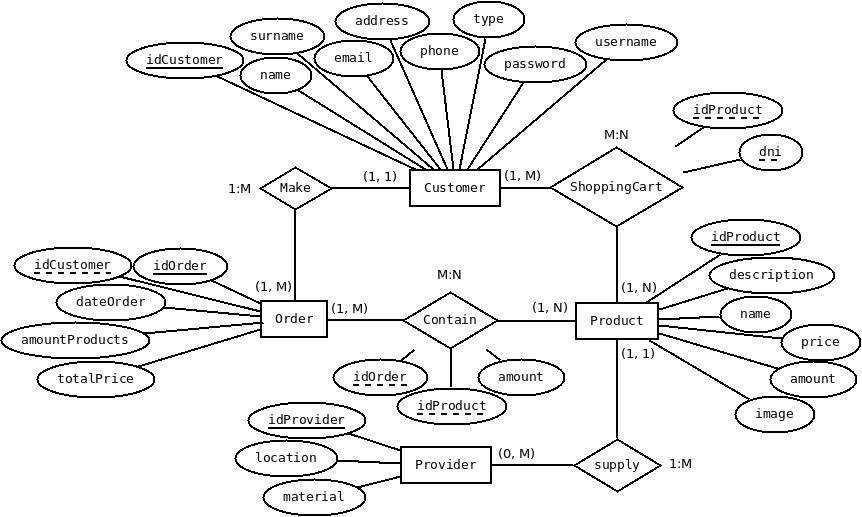
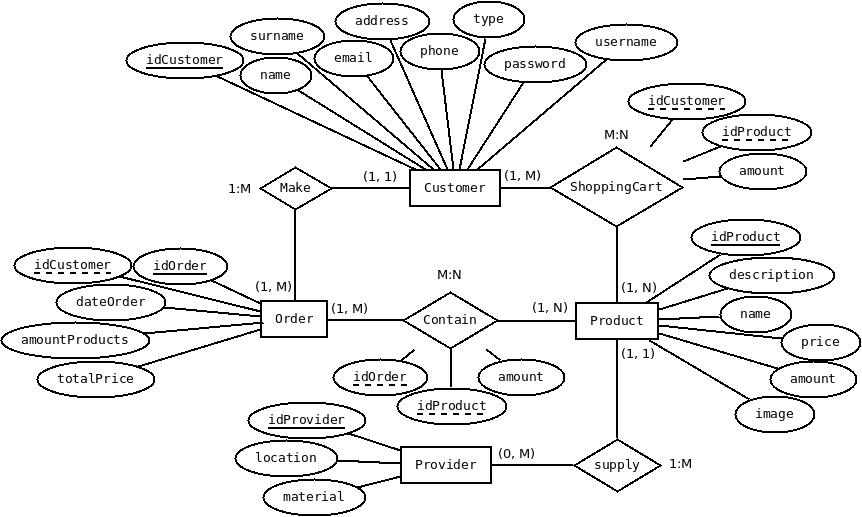
Add and display the quantity of products in the shopping cart

Changed region(s): [[0.7239, 0.1547, 0.935, 0.3714]]

diff --git a/css/product_info.css b/css/product_info.css
@@ -16,41 +16,67 @@ body{
 	background: white;
 	box-shadow: 0px 5px 10px #B5C1C5, 0 0 0 10px #EEF5F7 inset;
 }
+#basic{
+	/* border: 1px solid #555; */
+	display: flex;
+	height: 35px;
+}
+#basic #user{
+	width: 33%;
+}
+#basic #title{
+	width: 33%;
+}
+#basic #cart{
+	width: 33%;
+}
+#basic #user p{
+  margin-top: 18px;
+}
+#basic #title h1{
+	font-size: 18px;
+	text-align: center;
+}
+#basic #cart label{
+	float: right;
+	background: #798e94;
+	color: #fff;
+	padding: 3px 7px;
+	border-radius: 10px;
+}
+#basic #cart img{
+  width: 38px;
+	height: 36px;
+	float: right;
+	margin-top: -1px;
+  filter: brightness(125%);
+}
 hr{
 	color: #ffffff80;
 }
-h1{
-	text-align: center;
-	font-size: 18px;
+#infobar{
+	background: #E2ECEE;
+	color: #798e94;
+	padding: 3px 10px;
+	border-radius: 0px 0px 6px 6px;
+	margin-top: -7px;
+	display: flex;
+}
+#path{
+	width: 50%;
+}
+#path a{
+	text-decoration: none;
 }
 #unlogin{
-  	float: right;
-	margin-top: -4px;
+	width: 50%;
+	text-align: right;
 }
 input[type=submit] {
-	float: right;
-	padding:5px 15px;
 	background:#E2ECEE;
 	border:0 none;
 	cursor:pointer;
 	border-radius: 5px;
-}
-p{
-	margin-top: -30px;
-}
-form{
-	margin-top: -40px;
-}
-#path{
-	background: #E2ECEE;
-	color: #798e94;
-	padding: 7px;
-	border-radius: 0px 0px 6px 6px;
-	margin-top: -3px;
-}
-#path a{
-	text-decoration: none;
-	color: #798e94;
 }
 #content{
 	/* border: 1px solid #555; */
@@ -101,7 +127,7 @@ form{
 }
 #content h1{
 	margin-top: 7px;
-	margin-left: -5px;
+	margin-left: 10px;
 	font-size: 16px;
 }
 #content h2{

diff --git a/product_info.php b/product_info.php
@@ -12,73 +12,113 @@
 		include_once "db_connection.php";
 
 	    session_start();
+
+		// If user is not logged
+		if(!isset($_SESSION["iduser"]))
+			header('Location: login.php');
+
+		// If hasn't arrived the product id from menu.php
+		if(!isset($_GET["id"]))
+			header('Location: menu.php');
+
 	    // If user clicked on unlogin button
 		if(isset($_POST["unlogin"])){
 			session_destroy();
 			header('Location: login.php');
 		}
 
-		// If user is logged
-		if(isset($_SESSION["iduser"])){
+		// Get username from database
+		$username = "";
+        $getusername = "SELECT name
+                        FROM customer
+                        WHERE idcustomer = {$_SESSION['iduser']};
+                       ";
 
-			// If hasn't arrived the product id from menu.php
-			if(!isset($_GET["id"]))
-				header('Location: menu.php');
+        if ($result = $connection->query($getusername)) {
+            if ($result->num_rows > 0)
+                $username = $result->fetch_object()->name;
+            else
+                echo "Impossible to get the username";
+        }else
+            echo "Wrong Query";
 
-			// Get username from database
-			$username = "";
-            $getusername = "SELECT name
-                            FROM customer
-                            WHERE idcustomer = {$_SESSION['iduser']};
-                           ";
+        // Get product data
+		$productName;
+		$productCategory;
+		$productDescrip;
+		$productPrice;
+		$productAmount;
+		$productImage;
 
-            if ($result = $connection->query($getusername)) {
-                if ($result->num_rows > 0)
-                    $username = $result->fetch_object()->name;
-                else
-                    echo "Impossible to get the username";
+        $getproduct = "SELECT *
+                       FROM product
+                       WHERE idproduct = {$_GET['id']};
+                      ";
+
+        if ($result = $connection->query($getproduct)) {
+            if ($result->num_rows > 0){
+            	$product = $result->fetch_object();
+
+				$productName     = $product->name;
+				$productCategory = $product->category;
+				$productDescrip  = $product->description;
+				$productPrice    = $product->price;
+				$productAmount   = $product->amount;
+				$productImage    = $product->urlimage;
             }else
-                echo "Wrong Query";
+                echo "Impossible to get the product";
+        }else
+            echo "Wrong Query";
 
-            // Get product data
-			$productName;
-			$productCategory;
-			$productDescrip;
-			$productPrice;
-			$productAmount;
-			$productImage;
-
-            $getproduct = "SELECT *
-                           FROM product
-                           WHERE idproduct = {$_GET['id']};
+        // Add to Cart
+		if(isset($_POST["addToCart"])){
+            $getproduct = "INSERT INTO shopping_cart
+            			   VALUES({$_SESSION["iduser"]}, {$_GET["id"]}, {$_POST["quantity"]});
                           ";
 
             if ($result = $connection->query($getproduct)) {
-                if ($result->num_rows > 0){
-                	$product = $result->fetch_object();
-
-					$productName     = $product->name;
-					$productCategory = $product->category;
-					$productDescrip  = $product->description;
-					$productPrice    = $product->price;
-					$productAmount   = $product->amount;
-					$productImage    = $product->urlimage;
-                }else
-                    echo "Impossible to get the product";
+                if (!$result)
+                    echo "Impossible insert the product within shopping cart";
             }else
                 echo "Wrong Query";
-		}else
-			header('Location: login.php');
+		}
+
+		// Get amount products from shopping cart
+		$amount = 0;
+
+        $getusername = "SELECT idproduct
+                        FROM shopping_cart
+                        WHERE idcustomer = {$_SESSION['iduser']};
+                       ";
+
+        if ($result = $connection->query($getusername)) {
+            if ($result->num_rows > 0){
+                	while($result->fetch_object())
+                		$amount++;
+            }else
+                echo "Impossible to get the username";
+        }else
+            echo "Wrong Query";
+
+
 	?>
 
 	<div id="wrapper">
-		<h1>Product Info</h1>
+		<div id="basic">
+	        <div id="user"><?php echo "<p>Welcome, $username</p>" ?></div>
+			<div id="title"><h1>Product Info</h1></div>
+			<div id="cart"><label><?php echo $amount; ?></label><img src="resources/img/cart.png"></div>
+		</div>
         <hr>
-        <form method="post" id="unlogin">
-			<input type="submit" name="unlogin" value="Logout">
-        </form>
-        <?php echo "<p>Welcome, $username</p>" ?>
-        <div id="path"><a href="menu.php">Home</a> > <a href="menu.php?categ=<?php echo $productCategory; ?>"><?php echo $productCategory ?></a></div>
+        <div id="infobar">
+	        <div id="path">
+	        	<a href="menu.php">Home</a> >
+	        	<a href="menu.php?categ=<?php echo strtolower($productCategory); ?>"><?php echo $productCategory ?></a>
+	        </div>
+	        <form method="post" id="unlogin">
+				<input type="submit" name="unlogin" value="Logout">
+	        </form>
+        </div>
         <br>
 		<div id="content">
 			<div id="row1">
@@ -97,8 +137,8 @@
 							}else if($position = strpos($productPrice, ".")){
 								$integer = substr($productPrice, 0, $position);
 								$decimal = substr($productPrice, $position + 1, $position + 2);
-								echo "<label id='integer'>$integer</label>
-								      <label id='decimal'>,".$decimal."€</label>";
+								echo "<label id='integer'>".$integer.",</label>
+								      <label id='decimal'>".$decimal."€</label>";
 							}
 						?>
 					</h2>
@@ -110,12 +150,14 @@
 								echo "<label id='red'>Sold out</label>";
 						?>
 					</h3>
-					<h3>Quantity:
-						<?php $min = ($productAmount > 0) ? 1 : 0 ?>
-						<input type="number" name="quantity" min="<?php echo $min; ?>" max="<?php echo $productAmount; ?>" value="<?php echo $min; ?>" >
-					</h3>
-					<input type="submit" value="Add to cart">
-					<input type="submit" value="Buy">
+			        <form method="post" id="buttons">
+						<h3>Quantity:
+							<?php $min = ($productAmount > 0) ? 1 : 0 ?>
+							<input type="number" name="quantity" min="<?php echo $min; ?>" max="<?php echo $productAmount; ?>" value="<?php echo $min; ?>" >
+						</h3>
+						<input type="submit" name="addToCart" value="Add to cart">
+						<input type="submit" name="buy" value="Buy">
+			        </form>
 				</div>
 			</div>
 			<div id="row2">
